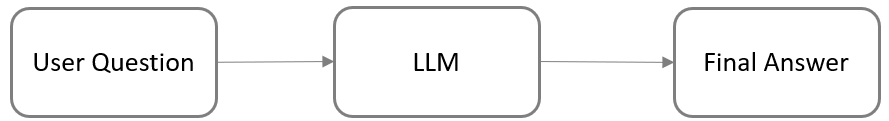
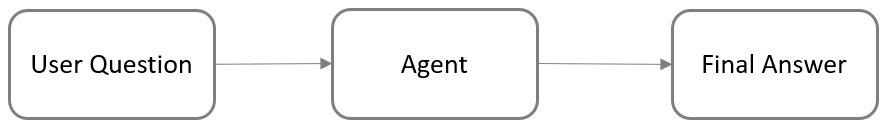
Updated README.md files

Changed region(s): [[0.0, 0.0496, 1.0, 0.9917], [0.4252, 0.4215, 0.5467, 0.595]]

diff --git a/ai-lab3/README.md b/ai-lab3/README.md
@@ -8,9 +8,11 @@ The application will answer to questions like:
 - *What is the average attendance on Amit in Chemistry?*
 
 The application uses:
+- **LLaMa 3.3** as the LLM
+- **Groq** for Inference provider
+- **LangChain** for Agent framework
 - **SQLite** for storing the student attendance data 
-- **LangChain** for LLM interaction
-- **Streamlit** for a UI
+- **Streamlit** for a rendering the UI
 
 ---
 **Retrieval-Augmented Generation (RAG)** means:
@@ -51,7 +53,7 @@ ai-lab3/
 
 ## Step 1: Setup the code files
 
-Create a folder under C: drive and use git to clone the repository
+Create a folder under C: drive and use **git** to clone the repository
 ```
 git clone https://github.com/nithinpv/gen-ai-labs.git
 ```

diff --git a/ai-lab1/README.md b/ai-lab1/README.md
@@ -21,8 +21,10 @@ In this tutorial, you will understand:
 - How to separate UI and AI logic
 
 The application uses:
-- **LangChain** for LLM interaction
-- **Streamlit** for a UI
+- **LLaMa 3.3** as the LLM
+- **Groq** for Inference provider
+- **LangChain** for Agent framework
+- **Streamlit** for a rendering the UI
 ---
 
 ## Architecture
@@ -43,7 +45,7 @@ ai-lab1/
 
 ## Step 1: Setup the code files
 
-Create a folder under C: drive and use git to clone the repository
+Create a folder under C: drive and use **git** to clone the repository
 ```
 git clone https://github.com/nithinpv/gen-ai-labs.git
 ```
